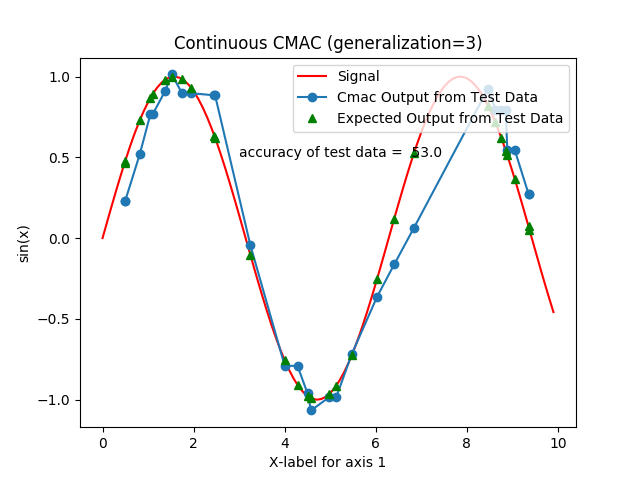
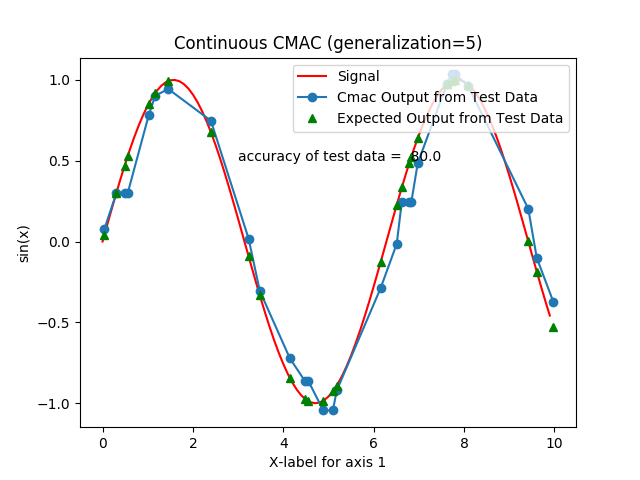
Rectified errors

diff --git a/main.py b/main.py
@@ -23,58 +23,70 @@ y = np.sin(x)
 
 testDataExpected = np.column_stack((x,y))
 
+idx = testDataExpected[:,0].argsort()
+testDataExpected = testDataExpected[idx]
+
 ###########################################
 #        Training and Testing Cmac
 ###########################################
-g = 3
+g = 5
 w = 35
 ac = 35
 a = Cmac(g,w,ac)
 
-###############
-#  Discrete
-###############
+##################################
+#         Discrete
+##################################
 a.train(trainData[:,0],trainData[:,1])
-
 testDataResults = np.zeros((len(testDataExpected),2))
 
+#######################
+# Test Data Prediction
+#######################
 for i in range(len(testDataExpected)):
-    y = a.prediction(x[i])
-    testDataResults[i]=[x[i],y]
+    y = a.prediction(testDataExpected[i,0])
+    testDataResults[i]=[testDataExpected[i,0],y]
 
 idx = testDataResults[:,0].argsort()
 testDataResults = testDataResults[idx]
 
-
-count = 0
+#######################
+# Calculating accuracy
+#######################
+count = 0.0
 accuracyDiscrete = 0
 for i in range(len(testDataExpected)):
-    if(abs(testDataResults[i,1] - testDataExpected[i,1])<= 0.5):
+    if(abs(testDataResults[i,1] - testDataExpected[i,1])<= 0.1):
         count += 1
 
 accuracyDiscrete = count/len(testDataExpected) * 100
 
 
-###############
-#  Continuous
-###############
+###################################
+#           Continuous
+###################################
+# set d  to 1 to indicate continuous cmac
 a.train(trainData[:,0],trainData[:,1],d=1)
+testDataResultsC = np.zeros((len(testDataExpected),2))
 
-testDataResultsC = np.zeros((len(x),2))
-
+#######################
+# Test Data Prediction
+#######################
 for i in range(len(testDataExpected)):
-    y = a.prediction(x[i])
-    testDataResultsC[i]=[x[i],y]
+    y = a.prediction(testDataExpected[i,0])
+    testDataResultsC[i]=[testDataExpected[i,0],y]
 
 idx = testDataResultsC[:,0].argsort()
 testDataResultsC = testDataResultsC[idx]
 
-count = 0
+#######################
+# Calculating accuracy
+#######################
+count = 0.0
 accuracyContinous = 0
 for i in range(len(testDataExpected)):
-    if(abs(testDataResults[i,1] - testDataExpected[i,1])<= 0.5):
+    if(abs(testDataResults[i,1] - testDataExpected[i,1])<= 0.1):
         count += 1
-
 accuracyContinous = count/len(testDataExpected) * 100
 
 
@@ -93,7 +105,7 @@ ax1.set_title("Discrete CMAC(generalization= {})".format(g))
 ax1.set_xlabel("X-label for axis 1")
 ax1.set_ylabel("sin(x)")
 plt.legend(loc = "upper right")
-plt.text(3,0.5, 'accuracy of test data =  {}'.format(np.round(accuracyDiscrete)))
+plt.text(3,0.5, 'accuracy of test data =  {}'.format(np.round(accuracyDiscrete,2)))
 strFile = "./Data/Accuracy/discreteAccuracy.png"
 if os.path.isfile(strFile):
    os.remove(strFile)   
@@ -110,7 +122,7 @@ ax3.set_title("Continuous CMAC (generalization=%i)" %g)
 ax3.set_xlabel("X-label for axis 1")
 ax3.set_ylabel("sin(x)")
 plt.legend(loc = "upper right")
-plt.text(3,0.5, 'accuracy of test data =  {}'.format(np.round(accuracyContinous)))
+plt.text(3,0.5, 'accuracy of test data =  {}'.format(np.round(accuracyContinous,2)))
 strFile = "./Data/Accuracy/continuousAccuracy.png"
 if os.path.isfile(strFile):
    os.remove(strFile)   

diff --git a/Cmac.py b/Cmac.py
@@ -52,12 +52,10 @@ class Cmac:
         neighborOfx[0],neighborOfx[1],quantization = self.__quantizeInput(x)
 
         if(d == 0): # Discrete Cmac
-            # print("I am not here")
             for i in range(neighborOfx[0],neighborOfx[1]+1):
                 self.weights[i] += learningRate*error*self.__kernel(quantization,i)
         
         else:    # continuous Cmac
-            # print("I am here")
             for i in range(neighborOfx[0],neighborOfx[1]+2):
                 if(i == neighborOfx[0]):
                     self.weights[i] += learningRate*error*self.__kernel(quantization,i)*0.5
@@ -67,17 +65,19 @@ class Cmac:
                     else:
                         self.weights[i] += learningRate*error*self.__kernel(quantization,i)
 
-    def train(self,x,y,learningRate=0.02,iterations=2000,accuracy=0.01,d = 0, xmin=0 ,xmax =10):
+
+
+    def train(self,x,y,learningRate=0.01,iterations=100,accuracy=0.01,d = 0, xmin=0 ,xmax =10):
         accuracyTable = np.zeros((len(x),2))
-        for i in range(len(x)):
-            for j in range(iterations):
+        for j in range(iterations):
+            for i in range(len(x)):
                 error = y[i]-self.prediction(x[i],xmin,xmax,d) 
                 # print("prediction is {}".format(self.prediction(x[i],xmin,xmax)))
                 # print("error is{}".format(error))
                 # print("==========")
                 # print(" ")
                 if(abs(error)<= accuracy):
-                    break
+                    continue
                 self.__updateWeights(x[i],learningRate,error, xmin,xmax,d)
 
             count = 0
